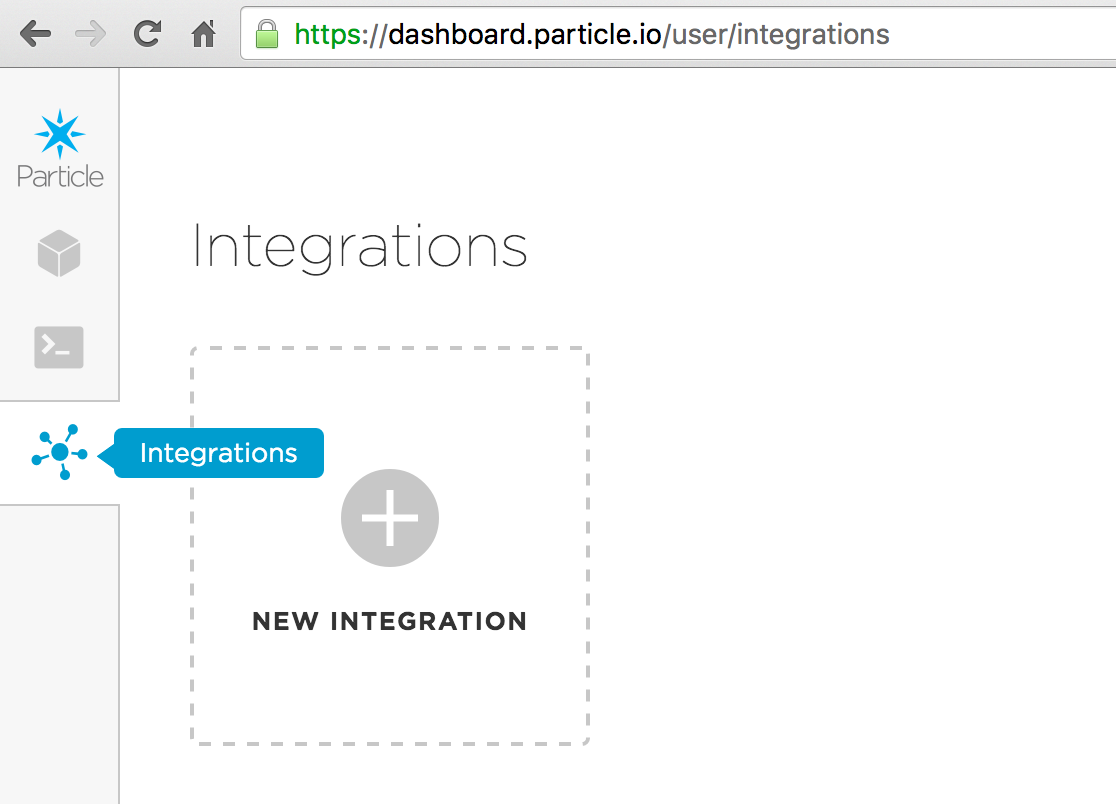
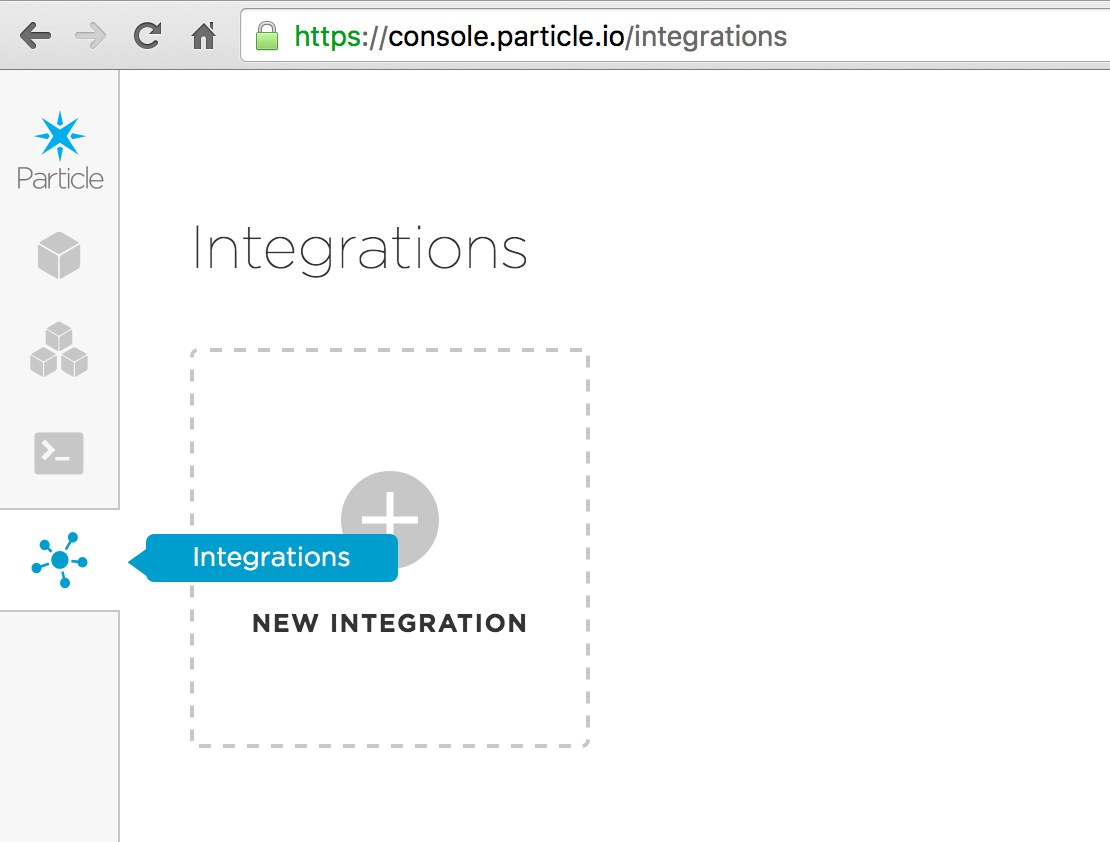
"Console" updates

diff --git a/src/content/tutorials/topics/maker-kit.md b/src/content/tutorials/topics/maker-kit.md
@@ -13,9 +13,9 @@ This section provides tutorials for new users of the [Photon Maker Kit](https://
 
 ## Tutorial #1: Servo Gong
 
-In this beginner tutorial, you’ll learn how to connect the Maker Kit servo to your Photon, and how to control it via the web using the [Do Button](https://ifttt.com/products/do/button) app on your smartphone to ring a gong or other noise-making object.
+In this beginner tutorial, you’ll learn how to connect the Maker Kit **servo** to your Photon, and how to control it via the web using the [Do Button](https://ifttt.com/products/do/button) app on your smartphone to ring a gong or other noise-making object.
 
-{{{youtube "https://www.youtube.com/embed/stg5DNLRgOk"}}}
+{{{youtube "https://www.youtube.com/embed/stg5DNLRgOk?rel=0"}}}
 
 ### What you'll need
 
@@ -167,11 +167,13 @@ If you have issues that can't be solved here, post on our [community forums](htt
 
 ## Tutorial #2: Next Bus Alert
 
-In this tutorial, you’ll learn how to to get bus prediction times from the internet and display them on the Maker Kit OLED screen, which will provide alerts for upcoming buses. You'll also learn what a webhook is, and how to use it to get the prediction data to your Photon.
+In this tutorial, you’ll learn how to to get bus prediction times from the internet and display them on the Maker Kit **OLED screen**, which will provide alerts for upcoming buses. You'll also learn what a **webhook** is, and how to use it to get the prediction data to your Photon.
 
-{{{youtube "https://www.youtube.com/embed/H0nN0OSSMiA?rel=0"}}}
+{{{youtube "https://www.youtube.com/embed/BDUVJ3dSksk?rel=0"}}}
 
-Then you'll wire up the OLED screen and display the bus alerts with fancy marquee scrolling. Here's how:
+Then you'll wire up the OLED screen and display the bus alerts with fancy marquee scrolling.
+
+Here's how:
 * Discover your bus **prediction URL**
 * Set up a **webhook**
 * **Subscribe** to the webhook from the Photon
@@ -220,7 +222,7 @@ If it works, congrats! You've created your bus prediction URL.
 Great, so we’ve got our prediction URL and we can access it from a browser, but how do we access it from the Photon? The answer is to use a **webhook**, which you can read more about in our [webhooks guide](https://docs.particle.io/guide/tools-and-features/webhooks/).
 
 To create a webhook:
-* Go to the **[Particle Dashboard](https://dashboard.particle.io)**
+* Go to the **[Particle Console](https://console.particle.io)**
 * Click the **Integrations** tab
 * Click **New Integration**
 * Click **Webhook**
@@ -454,7 +456,7 @@ By keeping these functions separate from the main *loop()* function, code can be
 
 **My OLED screen works, but it shows 0 for both prediction times.**
 * First enter your prediction URL into your web browser to make sure it's working properly.
-* If the URL returns good data when viewed from a browser, [check your webhook](https://dashboard.particle.io/user/integrations) and make sure the URL in the webhook matches the one you just tested in your browser.
+* If the URL returns good data when viewed from a browser, [check your webhook](https://console.particle.io/integrations) and make sure the URL in the webhook matches the one you just tested in your browser.
 
 **I missed my bus because I was hypnotized by the fancy scrolling OLED screen.**
 * Don't worry, it happens to the best of us.
@@ -466,12 +468,12 @@ If you have issues that can't be solved here, post on our [community forums](htt
 
 
 ## Tutorial #3: Conference Room Monitor
-Wouldn’t it be awesome to be able to know whether someone is occupying your office’s conference room, without getting up from your desk? In this tutorial, you’ll learn how to use the Maker Kit PIR motion sensor, and how to integrate it with Slack using webhooks. PIR sensors detect subtle changes in infrared light, so they're particularly good for sensing people, animals, or other warm (or bright, since many lights also produce infrared) objects -- regardless of whether it's dark or not. There are many use cases for this, but for this tutorial we’re going to make a Slack channel that gets real-time updates of whether a conference room is in use.
+Wouldn’t it be awesome to be able to know whether someone is occupying your office’s conference room, without getting up from your desk? In this tutorial, you’ll learn how to use the Maker Kit **PIR motion sensor**, and how to integrate it with [Slack](https://slack.com) using webhooks. PIR sensors detect subtle changes in infrared light, so they're particularly good for sensing people, animals, or other warm (or bright, since many lights also produce infrared) objects -- regardless of whether it's dark or not. There are many use cases for this, but for this tutorial we’re going to make a Slack channel that gets real-time updates of whether a conference room is in use.
 
-{{{youtube "https://www.youtube.com/embed/IdVDryxmjjo?rel=0"}}}
+{{{youtube "https://www.youtube.com/embed/354GYoZ4m8c?rel=0"}}}
 
 ### Set up a Slack Incoming Webhook
-A Slack Incoming Webhook listens for data from an external source and then posts it to a Slack channel of your choosing.
+A [Slack Incoming Webhook](https://api.slack.com/incoming-webhooks) listens for data from an external source and then posts it to a Slack channel of your choosing.
 
 First, make a channel for the webhook to post in. This example is for conference room availability, so we’ll make a channel called #conferenceroom. Next, click the gear icon and choose “Add an app or integration”.
 ![Add a new Slack integration](/assets/images/conf-add-slack-integration.png)
@@ -494,7 +496,7 @@ Scroll down to **Integration Settings** and give your webhook a descriptive labe
 ### Create a Particle webhook
 Many Slack integrations require dedicated web servers running PHP scripts to process information to and from Slack. However, in our case we can just use a Particle webhook to tell the Slack webhook whether the conference room is available. Easy!
 
-Go to the [Particle Dashboard](http://dashboard.particle.io) and click the **Integrations** tab, then click **New Integration**.
+Go to the [Particle Console](http://console.particle.io) and click the **Integrations** tab, then click **New Integration**.
 ![Add a new Particle webhook](/assets/images/conf-add-particle-webhook0.png)
 
 Click **Webhook** to start the Webhook Builder.
@@ -503,14 +505,14 @@ Click **Webhook** to start the Webhook Builder.
 In the Webhook Builder under **Event Name**, enter `conf_avail`. Then paste your Slack webhook URL under **URL**.
 ![Add a new Particle webhook](/assets/images/conf-add-particle-webhook2.png)
 
-Expand **Advanced Settings** and choose **JSON**. Paste the following code:
+Expand **Advanced Settings** and choose **JSON** under **Send Custom Data**. Paste the following code:
 ![Add a new Particle webhook](/assets/images/conf-add-particle-webhook3.png)
 ```
 {
 	"text": "The conference room is \{{PARTICLE_EVENT_VALUE}}."
 }
 ```
-The \{{PARTICLE_EVENT_VALUE}} field gets filled with the data sent when the event is published by the device. In this case, the data will be the `status` variable, which will contain either `"in use"` or `"available"`.
+The **\{{PARTICLE_EVENT_VALUE}}** field gets filled with the data sent when the event is published by the device. In this case, the data will be the `status` variable, which will contain either `"in use"` or `"available"`.
 
 Scroll down to the bottom and hit **Create Webhook**.
 
@@ -599,10 +601,11 @@ This sensor and webhook integration are very versatile. You could use it for any
 ### Troubleshooting
 **My channel shows that the room is in use, but doesn't show that it's available (or the reverse).**
 * This setup is designed to only show the room as available if no motion has been detected for 30 seconds. Try putting a blanket over the sensor to completely block all motion.
-* When you created the Particle webhook, did you spell the event name properly, such that it matches the code?
+* Check your Particle webhook and make sure the event name matches the event name in the code.
 
 **No motion is being detected (the D7 LED isn't turning on at all).**
 * Check your wiring -- with the sensor on the upper right corner of the breadboard, the pin order from left to right is `GND, OUT, +5V`, where `OUT` is the sensor output that is read by pin `D0` on the Photon.
+* These sensors sometimes seem to take a minute or two to start working properly, so wait and try again.
 
 If you have issues that can't be solved here, post on our [community forums](https://community.particle.io/c/troubleshooting).
 
@@ -613,9 +616,9 @@ If you have issues that can't be solved here, post on our [community forums](htt
 
 
 ## Tutorial #4: Temperature Logger
-In this tutorial, you'll learn how to use the **Dallas DS18B20** temperature sensors included in the Maker Kit, and how to log the data to a Google Spreadsheet. Logging the data allows it to be graphed and analyzed, which can provide insights into temperature fluctuations in rooms, garages, reptile tanks, the outdoors, and even liquids. The Maker Kit contains two sensors, both of which are the same model, but one is waterproof and has long wires, while the other is just a bare sensor. We'll be using the bare sensor for simplicity, but you can substitute the waterproof sensor in its place without any modifications.
+In this tutorial, you'll learn how to use the **Dallas DS18B20** temperature sensors included in the Maker Kit, and how to log the data to a Google Spreadsheet. Logging the data allows it to be graphed and analyzed, which can provide insights into temperature fluctuations in rooms, garages, reptile tanks, the outdoors, and even liquids. The Maker Kit contains two sensors, both of which are the same model, but one is waterproof and has long wires, while the other is just a bare sensor. We'll be using the bare sensor for simplicity in this tutorial, but you can substitute the waterproof sensor in its place without any modifications.
 
-{{{youtube "https://www.youtube.com/embed/XouV4dnc1vY?rel=0"}}}
+{{{youtube "https://www.youtube.com/embed/2LkPpa2GN6k?rel=0"}}}
 
 We'll wire up the sensor to the Photon, then create a Particle Function to send the temperature data to the cloud, then connect our cloud data to Google Sheets using IFTTT, and start logging!
 
@@ -857,7 +860,7 @@ void loop(void) {
   // now that we have the readings, we can publish them to the cloud
   String temperature = String(fahrenheit); // store temp in "temperature" string
   Particle.publish("temperature", temperature, PRIVATE); // publish to cloud
-  delay(5000); // 5 sec delay
+  delay(5000); // 5 second delay
 }
 ```
 The second-to-last line publishes the data to the cloud:
@@ -866,17 +869,17 @@ Particle.publish("temperature", temperature, PRIVATE); // publish to cloud
 ```
 This line publishes an **event** named "temperature" to the Particle cloud, which brings with it the data stored in the `temperature` variable. You can read more about publishing events [here](/reference/firmware/photon/#particle-publish-).
 
-The default is to take a reading every five seconds, which is great for testing this setup to make sure it works. If you want a longer interval once you get it working, change `delay(5000)` to something larger. Google spreadsheets can hold a maximum of 2000 rows, so the following line will take a reading every five minutes, which fits about a week's worth of readings into one sheet:
+The default is to take a reading every five seconds, which is great for  for short-term projects and for testing this setup to make sure it works. If you want a longer interval once you get it working, change `delay(5000)` to something larger. Google spreadsheets can hold a maximum of 2000 rows, so the following line will take a reading every five minutes, which fits about a week's worth of readings into one sheet:
 ```
 delay(300000); // 5 minute delay
 ```
 Now let's upload the code. Click **Devices** in the left sidebar, and select your device as the device to upload to. Click the **Flash** button to upload the code!
 
-Your device should start publishing temperature readings to the [Particle Dashboard](https://dashboard.particle.io) immediately, so go there and make sure they look good. If you get nothing, the sensor is not connected properly. Make sure your wiring matches the diagram, and make sure your resistor and sensor are fully inserted into the breadboard. Once you get readings, continue on!
+Your device should start publishing temperature readings to the **[Particle Console](https://console.particle.io)** immediately, so go there and make sure they're showing up. If you get nothing, the sensor is probably not connected properly. Make sure your wiring matches the diagram, and make sure your resistor and sensor are fully inserted into the breadboard. If the resistor seems loose in the breadboard holes, try inserting it into the same holes as the sensor. Once you get readings, continue on!
 
-![Temperatures displayed in the Particle Dashboard](/assets/images/temp-logger-dashboard.png)
+![Temperatures displayed in the Particle Console](/assets/images/temp-logger-dashboard.png)
 
-For more information about the Dashboard, read our [Dashboard guide](/guide/how-to-build-a-product/dashboard/).
+For more information about the Console, read our [Console guide](/guide/tools-and-features/console/).
 
 ### IFTTT
 [IFTTT](https://ifttt.com) (which stands for "IF This Then That" and is pronounced "ift") is an incredibly flexible service that allows you to select a trigger and perform actions based on that trigger. In this case, the trigger will be our Photon publishing an event called `temperature`, and the action will be to add a row to a Google Spreadsheet containing the temperature and the current date and time. This will allow us to graph the temperature later on.
@@ -917,16 +920,17 @@ Once you get enough readings, you can make a graph:
 This setup has a wide range of applications, so enjoy!
 
 ### Troubleshooting
-**No events are appearing in the Dashboard.**
+**No events are appearing in the Console.**
 * Check the sensor wiring against the diagram.
 * In some cases breadboard holes can be a little loose. Try wiggling the resistor and sensor and see if readings come in. If you're using a resistor with very thin leads, sticking them into the same holes as the sensor pins often provides better contact.
-* Make sure you're logged into the dashboard with the same account that owns the device.
+* Make sure you're logged into the Console with the same account that owns the device.
 * Make sure the Photon LED is "breathing cyan", which means it's connected to the cloud.
 
-**I see events in the Dashboard, but not in the spreadsheet.**
+**I see events in the Console, but not in the spreadsheet.**
 * Check your IFTTT recipe. Is everything spelled correctly and in the correct boxes?
 
-**I don't see a spreadsheet at all.**
-* The default folder for the spreadsheet is `My Drive/events`, so check there if you haven't already.
+**I can't find the spreadsheet.**
+* The default folder for the spreadsheet is `My Drive/events`, so check there first.
+* Check if events are showing up in the [Console](https://console.particle.io).
 
 If you have issues that can't be solved here, post on our [community forums](https://community.particle.io/c/troubleshooting).
